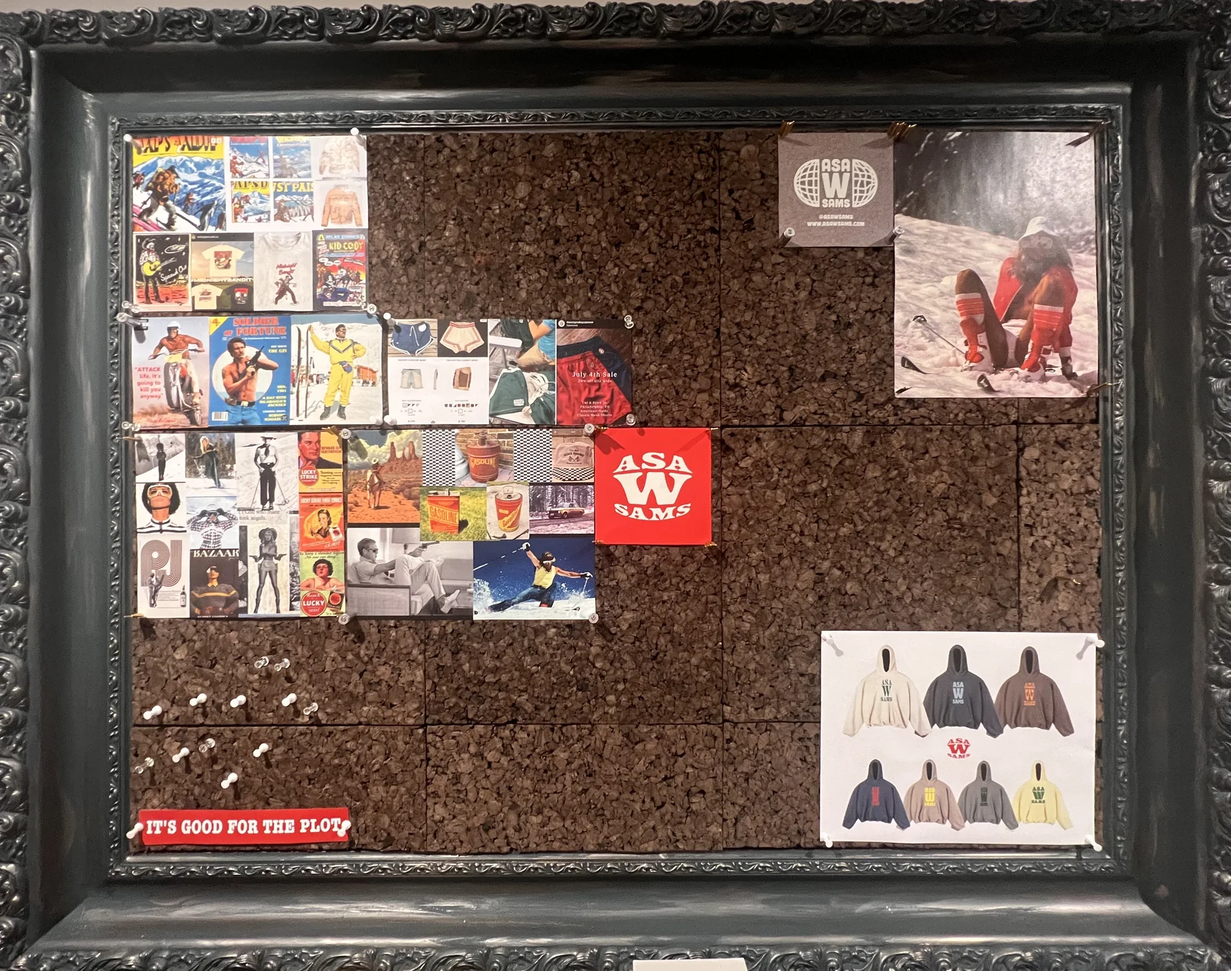
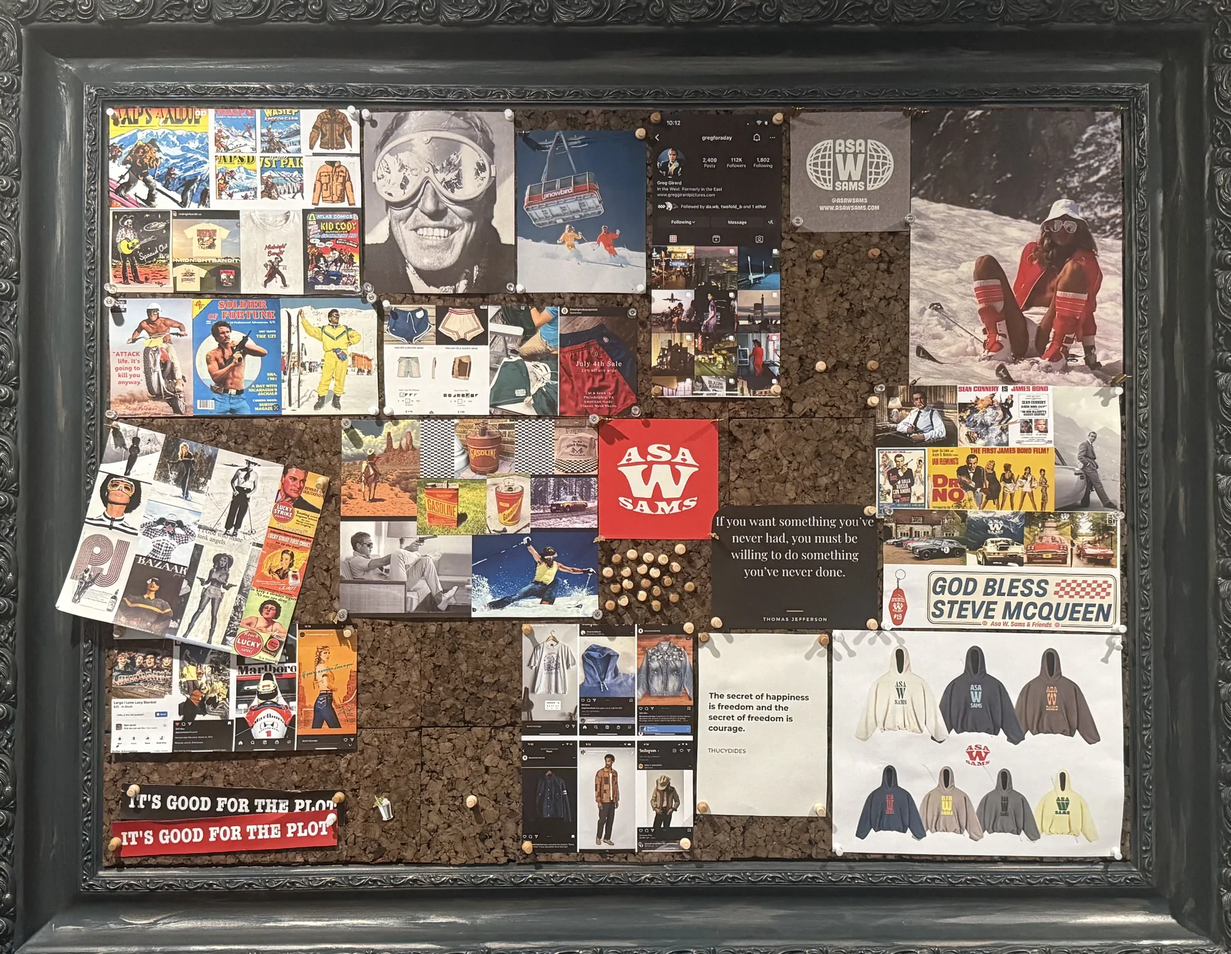
Maraschino: the full cork board

diff --git a/case-studies/maraschino/index.html b/case-studies/maraschino/index.html
@@ -402,7 +402,7 @@
       <p>I keep a cork board at home covered in torn-out ads, film stills, and product photos, with pins on the exact things I like. When I tried to hand that same board to AI as fifty images and a paragraph, it blended everything into one generic vibe. Nothing told it that I wanted the grain from one photo, the layout from another, and to ignore the rest. Maraschino is that cork board as software. You pin what you specifically like about each image, weight what matters most, and it compiles a design file and a brief the AI can actually follow.</p>
       <p>To validate the idea, I ran the same fifty images through both methods, same image generator producing several outputs, and built a quick scoring page that shuffled the results so I could vote blindly on which ones I liked best. The paragraph version spit out collages of the mood board itself, with fake logos I'd specifically said to avoid. The Maraschino version won every time. The images looked like the brand, not like a pile of references.</p>
     </div>
-    <figure class="pol why-fig"><img src="assets/cork-board.webp" alt="The real cork board: a large ornate grey frame filled with dark cork, torn-out ski and film ads, vintage magazine covers, an Asa W. Sams patch, a hoodie colour sheet, and a red sticker that says It's good for the plot." width="1800" height="1419" loading="lazy"><figcaption class="chin"><span>The cork board at home · where this started</span></figcaption></figure>
+    <figure class="pol why-fig"><img src="assets/cork-board.webp" alt="The real cork board, now full: an ornate grey frame packed edge to edge with ski and film clippings, vintage ads and magazine covers, Instagram printouts, an Asa W. Sams patch, two quotes, a God Bless Steve McQueen card, a hoodie colour sheet, and two It's good for the plot stickers." width="1800" height="1395" loading="lazy"><figcaption class="chin"><span>The cork board at home · where this started</span></figcaption></figure>
     </div>
   </section>
 
